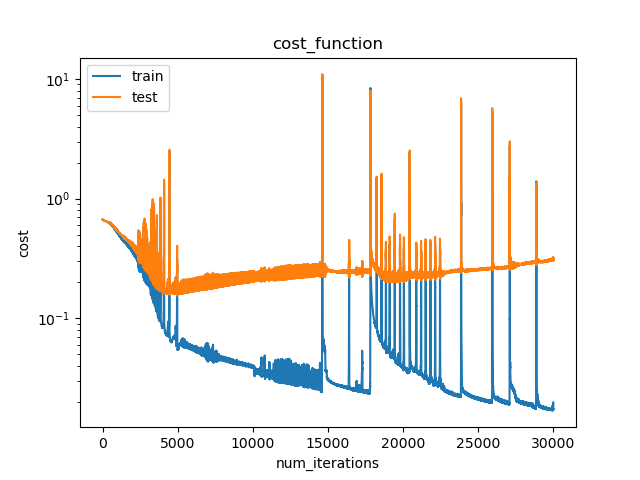
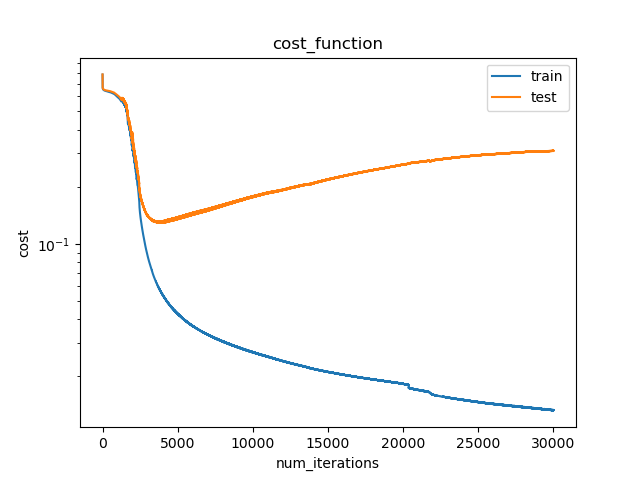
course 4 code notes image update

diff --git a/src/assignments/03-deep-neural-nn/deep_nn.py b/src/assignments/03-deep-neural-nn/deep_nn.py
@@ -257,7 +257,7 @@ def gradient_checks_test(X,Y):
     #데이터 준비
 
 
-    indices = np.random.permutation(X.shape[1])[:10]
+    indices = np.random.permutation(X.shape[1])[:20]
     X_shuffled = X[:, indices]
     Y_shuffled = Y[:, indices]
 
@@ -302,7 +302,7 @@ def cost_function_plot(history):
     plt.legend()
 
 #학습 곡선만 그림
-def cost_function_plot(history):
+def train_cost_function_plot(history):
     horizontal = np.arange(1, len(history["cost_list"]) + 1)
     plt.plot(horizontal, history["cost_list"], label="train")
 
@@ -410,8 +410,8 @@ def experiment_A_extra2(X,Y,X_test,Y_test):
     historys_A_5=[]
     parameters_seeds={}
     for i in range(1,4):
-        parameters_seeds[f"A-3_seed={i}"]=initialize_parameters_deep(A_layer_dim["A-3"])
-        parameters_seeds[f"A-5_seed={i}"]=initialize_parameters_deep(A_layer_dim["A-5"])
+        parameters_seeds[f"A-3_seed={i}"]=initialize_parameters_deep(A_layer_dim["A-3"],i)
+        parameters_seeds[f"A-5_seed={i}"]=initialize_parameters_deep(A_layer_dim["A-5"],i)
 
     for i in range(1,4):
         parameters,history_A_3=L_layer_model(X, Y, A_layer_dim[f"A-{3}"], 30000, 0.2, X_test, Y_test,parameters_seeds[f"A-3_seed={i}"])
@@ -440,22 +440,15 @@ def experiment_B(X,Y,X_test,Y_test):
 
     for i in range(1,L+1):
         parameters,history=L_layer_model(X, Y, B_layer_dim[f"B-{i}"], 30000, 0.2, X_test, Y_test)
-        horizontal = np.arange(1, len(history["cost_list"]) + 1)
-        plt.plot(horizontal, history["cost_list"], label=f"B-{i}")
         historys.append(history)
 
     _,_,test_accuracy_He,_ = historys_to_test(historys)
 
-    plt.title(f"He_cost_function")
-    plt.xlabel("num_iterations")
-    plt.ylabel("cost")
-    plt.yscale("log")
-    plt.legend()
-    plt.show()
-    
+
     parameters_list=[]
 
     historys_randn=[]
+
 
 
     for i in range(1,L+1):
@@ -469,31 +462,22 @@ def experiment_B(X,Y,X_test,Y_test):
     
     for i in range(1,L+1):
         parameters,history_randn=L_layer_model(X, Y, B_layer_dim[f"B-{i}"], 30000, 0.2, X_test, Y_test,parameters_list[i-1])
-        horizontal = np.arange(1, len(history_randn["cost_list"]) + 1)
-        plt.plot(horizontal, history_randn["cost_list"], label=f"B-{i}")
         historys_randn.append(history_randn)
 
     _,_,test_accuracy_randn,_ = historys_to_test(historys_randn)
 
-    plt.title(f"randn_cost_function")
-    plt.xlabel("num_iterations")
-    plt.ylabel("cost")
-    plt.yscale("log")
-    plt.legend()
-    plt.show()
+    for i in range(L):
+        horizontal = np.arange(1, len(history["cost_list"]) + 1)
+        plt.plot(horizontal, historys[i]["cost_list"], label=f"He")
+        plt.plot(horizontal, historys_randn[i]["cost_list"], label=f"randn")
+        plt.title(f"B-{i+1}")
+        plt.xlabel("num_iterations")
+        plt.ylabel("cost")
+        plt.yscale("log")
+        plt.legend()
+        plt.show()
 
     return test_accuracy_He,test_accuracy_randn
-
-
-
-
-
-
-
-
-
-    
-
 
 
 def main():
@@ -562,8 +546,9 @@ def main():
     parameters = {}
     for l in range(1,len(layer_dims)):
 
-        parameters[f"W{l}"] = np.random.randn(layer_dims[l], layer_dims[l-1]) * np.sqrt(2.0 / layer_dims[l-1])
-        parameters[f"b{l}"] = np.random.randn(layer_dims[l], 1) * np.sqrt(2.0 / layer_dims[l-1])
+        parameters[f"W{l}"] = np.zeros((layer_dims[l],layer_dims[l-1]))
+        parameters[f"b{l}"] = np.zeros((layer_dims[l], 1))
+
 
     parameters,history=L_layer_model(X_train, Y_train, layer_dims, 30000, 0.2, X_test, Y_test,parameters)
     print("환원 훈련 정확도: ", history["train_accuracy"][-1])
@@ -590,8 +575,8 @@ def main():
 
     # 시험 정확도 체크
     layer_dims = [2, 16, 16, 1]
- #   parameters,history=L_layer_model(X_train, Y_train, layer_dims, 30000, 0.2, X_test, Y_test)
-#    print("훈련 정확도: ", history["train_accuracy"][-1],"시험 정확도: ",history["test_accuracy"][-1])
+    parameters,history=L_layer_model(X_train, Y_train, layer_dims, 30000, 0.2, X_test, Y_test)
+    print("훈련 정확도: ", history["train_accuracy"][-1],"시험 정확도: ",history["test_accuracy"][-1])
 
     cost_function_plot(history)
     plt.show()
@@ -614,6 +599,8 @@ def main():
     def run_experiment_A_extra1(): 
         A_layer_dim={}
         A_layer_dim["A-4"]= [2, 256, 1]
+
+        parameters_seeds=initialize_parameters_deep(A_layer_dim["A-4"],1)
         parameters,history=L_layer_model(X_train, Y_train, A_layer_dim[f"A-{4}"], 100000, 0.2, X_test, Y_test)
         min_iteration,train_accuracy,test_accuracy,first_iteration_array=historys_to_test([history])
         print("A-4 추가 실험 " ,"레이어 수: ",A_layer_dim["A-4"],"파리미터 수: ",count_params(A_layer_dim["A-4"]) ,
@@ -625,10 +612,10 @@ def main():
         experiment_A_extra2(X_train,Y_train,X_test,Y_test)
 
     
-#    run_experiment_A_result()
-#    plt.show()
-    #run_experiment_A_extra1()
-    #run_experiment_A_extra2()
+    run_experiment_A_result()
+    plt.show()
+    run_experiment_A_extra1()
+    run_experiment_A_extra2()
 
 
     def run_experiment_B():

diff --git a/src/assignments/03-deep-neural-nn/notes.md b/src/assignments/03-deep-neural-nn/notes.md
@@ -15,7 +15,7 @@
 ```
 
 결과 
-> 기울기 오차:  3.561108342793352e-11
+> 기울기 오차: 1.6398449336340596e-11
 
 <hr>
 
@@ -73,7 +73,7 @@
 > 로지스틱 회귀 훈련 정확도:  0.615 <br>
 > 로지스틱 회귀 시험 정확도:  0.617
 
-일치 여부 
+**일치 여부** 
 
 0으로 초기화 된 심층 신경망의 정확도가 로지스틱 회귀랑 동일하기에 일치한다고 할 수 있다.
 
@@ -92,14 +92,14 @@
 ```
 
 결과 
-> 훈련 정확도:  0.9975 시험 정확도:  0.945
+> 훈련 정확도:  0.9975 시험 정확도:  0.948
 
 <hr>
 
 ### 2.4 비용곡선 
 
 
-![Alt text](../../../images/04-deep-nn/deep_cost_train.png)
+![Alt text](../../../images/04-deep-nn/deep_cost_train_02.png)
 
 <hr>
 
@@ -110,18 +110,18 @@
 
 | # | 설정 | 파라미터 수 | 학습 정확도 | 시험 정확도 | 시험 정확도 90% 도달 | 시험 비용 최소 지점 |
 | :-- | :-- | --: | --: | --: | --: | --: |
-| A-1 | `[2, 1]` | 3 | 61.5% | 61.7% | - | 478회 |
-| A-2 | `[2, 16, 1]` | 65 | 67.5% | 63.9% | - | 10,494회 |
-| A-3 | `[2, 64, 1]` | 257 | 72.5% | 65.3% | - | 23,462회 |
-| A-4 | `[2, 256, 1]` | 1,025 | 98.5% | 93.7% | 24,000회 | 30,000회 |
-| A-5 | `[2, 16, 16, 1]` | 337 | 99.5% | 95.0% | 2,700회 | 5,317회 |
-| A-6 | `[2, 32, 16, 8, 1]` | 769 | 100.0% | 95.5% | 800회 | 1,653회 |
+| A-1 | `[2, 1]` | 3 | 61.5% | 61.7% | - | 588회 |
+| A-2 | `[2, 16, 1]` | 65 | 65.0% | 60.0% | - | 9,609회 |
+| A-3 | `[2, 64, 1]` | 257 | 65.5% | 62.6% | - | 6,274회 |
+| A-4 | `[2, 256, 1]` | 1,025 | 96.5% | 92.3% | 26,200회 | 29,795회 |
+| A-5 | `[2, 16, 16, 1]` | 337 | 100.0% | 95.4% | 2,600회 | 4,165회 |
+| A-6 | `[2, 32, 16, 8, 1]` | 769 | 100.0% | 95.3% | 1,000회 | 2,784회 |
 
 <hr>
 
 **A-1, A-5, A-6 결정경계**
 
-![Alt text](../../../images/04-deep-nn/A-1,A-5,A-6%20결정경계.png)
+![Alt text](../../../images/04-deep-nn/A-1,A-5,A-6%20결정경계2.png)
 
 
 <hr>
@@ -131,8 +131,8 @@
 
 | # | 학습 정확도 | 시험 정확도 | 시험 정확도 90% 도달 | 시험 비용 최소 지점 |
 | :-- | --: | --: | --: | --: |
-| A-4 | 98.5% | 93.7% | 24,000회 | 30,000회 |
-| A-4 추가 실험 | 99.5% | 95.1% | 67276회 | 54,000회 |
+| A-4 | 98.5% | 93.7% | 26,200회 | 29,795회 |
+| A-4 추가 실험 | 99.5% | 95.1% | 26,200회 | 41,680회 |
 
 <hr>
 
@@ -140,8 +140,8 @@
 
 | # | seed 0 | seed 1 | seed 2 | 
 | :-- | --: | --: | --: | 
-| A-3 | 70.8% | 73.8% | 72.2%|
-| A-3 | 95.2% | 95.7% | 95.4%|
+| A-3 | 65.0% | 72.6% | 69.1% |
+| A-3 | 94.9% | 95.3% | 94.8% |
 
 
 <hr>
@@ -155,9 +155,9 @@
 
 | # | layer_dims | He 초기화 | randn  | 
 | :-- | --: | --: | --: | 
-| B-1 | [2, 16, 1]   | 63.7% | 73.5% |
-| B-2 | [2, 16, 16, 1] | 95.1% | 93.3% |
-| B-3 | [2, 32, 16, 8, 1] | 95.8% |	61.7% |
+| B-1 | [2, 16, 1]   | 66.1% | 73.9% |
+| B-2 | [2, 16, 16, 1] | 95.6% | 95.0% |
+| B-3 | [2, 32, 16, 8, 1] | 95.6% |	62.3% |
 
 <hr>
 
